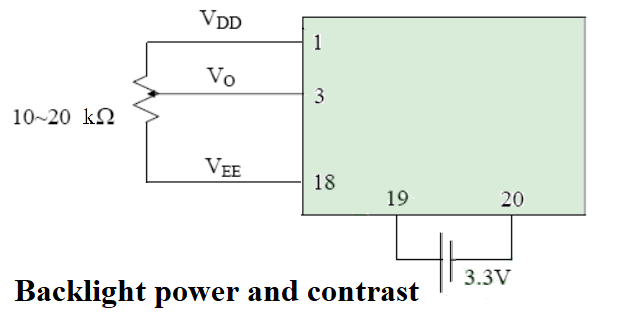
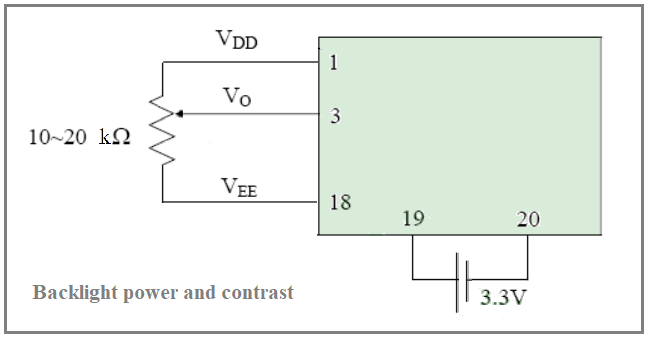
textual updates

Changed region(s): [[0.0, 0.0, 1.0, 0.9938]]

diff --git a/NT7108-12864LCD/NT7108-12864LCD.md b/NT7108-12864LCD/NT7108-12864LCD.md
@@ -13,8 +13,8 @@ The display came from and original factory box.
 The stamp shows the manufacturer name: POWERTIP.
 There is also a type indication `PG12864WRF-JNN-H-P5`.
 
-On the backside of the mode there is similar information.
-POWERTIP `PG12864J-P5(1.1)` and `PG12864WRF-JNN-H-P5.
+On the backside of the module there is similar information.
+POWERTIP `PG12864J-P5(1.1)` and `PG12864WRF-JNN-H-P5`.
 
 ![module](module.jpg)
 
@@ -22,13 +22,13 @@ Some Googling revealed a [datasheet](PG12864WRF-JCNHP5Q.pdf).
 The datasheet mentions controller ICs NT7107, NT7108.
 I also found that [datasheet](nt7108.pdf).
 
-I was confused about seeing two controllers.
+I was confused about seeing two controllers (NT7107 and NT7108).
 At this moment I believe it works as follows:
 A single NT7108 can drive 64 columns of 64 rows.
 So for a 128x64 display we need two NT7108.
 However, the module also needs a row driver.
 A single NT7107 drives 64 rows,
-the row driver is controlled by the column drivers.
+the row driver is controlled (and shared) by the column drivers.
 
 ![System](system.png)
 
@@ -38,9 +38,11 @@ the row driver is controlled by the column drivers.
 I found some libraries for Arduino. 
 One from [simple-circuit](https://simple-circuit.com/interfacing-arduino-with-ks0108-glcd-graphics-display-128x64-pixel/)
 and also the famous [u8g2](https://github.com/olikraus/u8g2) from olikraus.
-But at first both failed to work (and now, still the simple circuit one still swaps some columns).
+But at first both failed to work (and now, the "simple circuit" one still swaps columns).
 
 The biggest issue turned out the wiring.
+This is how I wired to get my sketch running.
+
 - Section 2.2.1 of the [datasheet](PG12864WRF-JCNHP5Q.pdf) indicates a VDD of 5V (4.5V-5.5V).
   So I did my experiments with an Arduino Uno (that is 5V, unlike eg an ESP32).
   Please note that the [NT7108 datasheet](nt7108.pdf) lists as VDD from 2.7V to 5.5V,
@@ -52,24 +54,25 @@ The biggest issue turned out the wiring.
   the backlight.
   - Pin 20 BLK (backlight kathode) needs to be wired to Uno GND.
   - Pin 19 BLA (backlight anode) needs to be wired to **3V3**. An Arduino UNO has a 3V3 out pin.
-  - A potmeter (10 to 20 kΩ) needs to bridge VEE (pin 18) and VDD (pin 1), the varying pin goes to Vo (pin 3).
+    No resister seems necessary.
+  - A potmeter (10 to 20 kΩ) needs to bridge Vee (pin 18) and VDD (pin 1), the varying pin goes to Vo (pin 3).
 
-  ![backlight](backlight.png)
+    ![backlight](backlight.png)
 
-- The module is a parallel module.
+- The module is a parallel module (8 lanes).
   - Pin 4 DB0 (data bus bit 0) needs to be wired to Uno GPIO 2. 
   - Pin 5 DB1 (data bus bit 1) needs to be wired to Uno GPIO 3. 
   - ...
   - Pin 11 DB7 (data bus bit 7) needs to be wired to Uno GPIO 9. 
   
-- There are many control lines.
+- There are seveal control lines.
   - Pin 12 CS1 (chip select first column driver) needs to be wired to Uno GPIO 10. 
-  - Pin 13 CS2 (chip select second column driver) needs to be wired to Uno GPIO 11. 
+  - Pin 13 CS2 (chip select second column driver) needs to be wired to Uno GPIO 11.  
     Note that I had to **swap CS1 and CS2**.
   - Pin 14 RST (reset) needs to be wired to Uno GPIO 12. 
-  - Pin 15 R/Wn (read/write select) needs to be wired to Uno GPIO 13. 
+  - Pin 15 R/Wn (read/write select) needs to be wired to Uno GPIO 13.  
     Note that the **U8g2 library does not use R/Wn, it needs to be grounded**.
-    I connect it to GPIO 13. and below Arduino sketch pulls that pin down in `setup`.
+    I connect it to GPIO 13 and below Arduino sketch pulls that pin down in `setup()`.
   - Pin 16 D/In (data/instruction select, aka as data/command select), needs to be wired to Uno A0.  
   - Pin 17 ENA (enable), needs to be wired to Uno A2.  
 
@@ -83,9 +86,7 @@ The biggest issue turned out the wiring.
 
 The U8g2 library is a likely candidate.
 Unfortunately, it does not list NT7108.
-
 However, somewhere I found a snippet saying that BT7108 is a KS0108 clone.
-
 With that, I got the U8g2 lib working.
 
 With the above wiring, this is the constructor call
@@ -101,7 +102,7 @@ U8G2_KS0108_128X64_1    u8g2(  /*rotation*/ U8G2_R0,
   /*R/Wn=  */ // This library does not use it; connect to GND on the PCB!
 ```
 
-The `setup` takes care of grounding R/Wn.
+The `setup()` takes care of grounding R/Wn.
 
 ```cpp
 void setup(void) {
@@ -110,7 +111,7 @@ void setup(void) {
 }
 ```
 
-The loop draws the test screen.
+The `loop()` draws the test screen.
 
 ```cpp
 void loop(void) {
@@ -131,6 +132,10 @@ which results in
 ![demo](demo.jpg)
 
 The full [sketch](demo) is available.
+
+Of course,  it also runs on Nano.
+
+![nano](nano.jpg)
 
 (end of doc)
 
